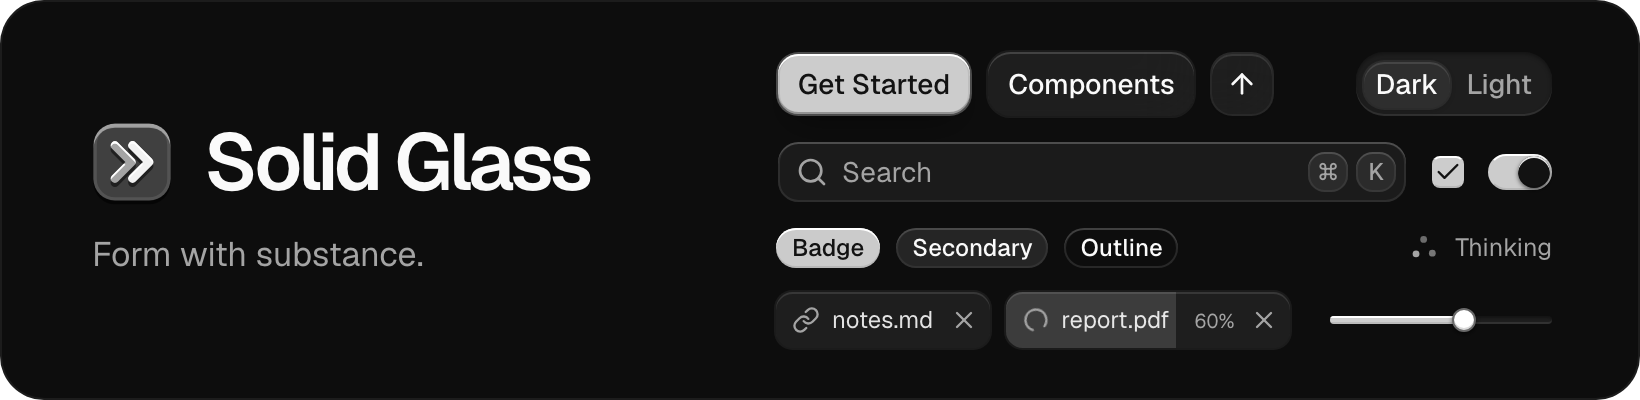
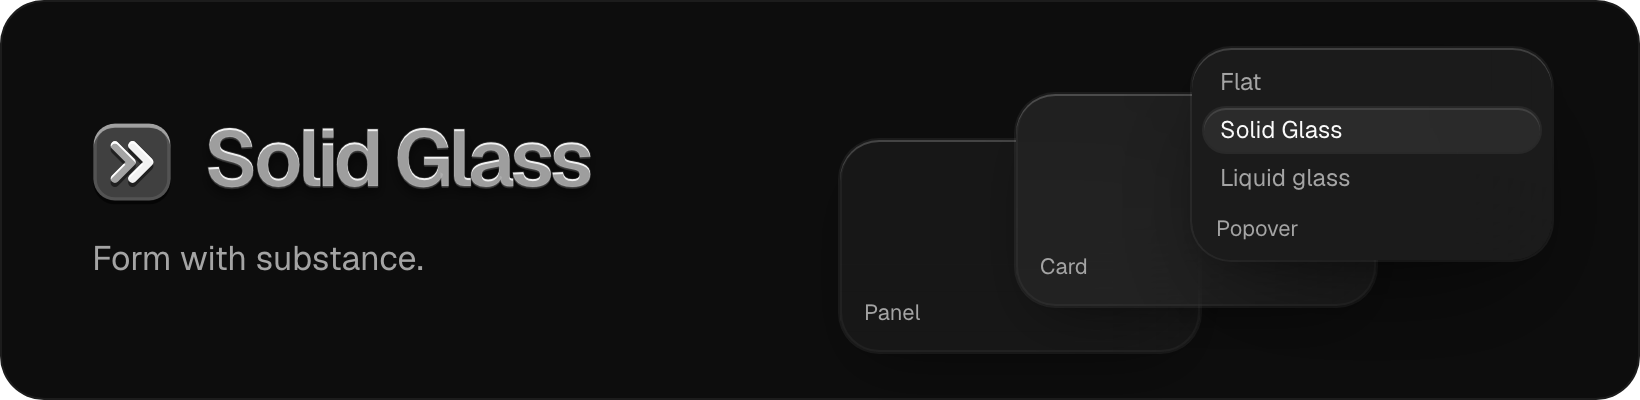
Show the components, not the headline, in the README
The banner already carries the name and the line under it, so the two
pictures below it start at the wall of cards. In the banner the name is
set in glass, and the three thicknesses are back on its right.

diff --git a/src/pages/dev-banner.tsx b/src/pages/dev-banner.tsx
@@ -1,25 +1,47 @@
 import * as React from "react"
-import { ArrowUpIcon, LinkIcon, PaperclipIcon, SearchIcon } from "lucide-react"
 
-import { Badge } from "@/components/ui/badge"
-import { Button } from "@/components/ui/button"
-import { Checkbox } from "@/components/ui/checkbox"
-import { Input } from "@/components/ui/input"
-import { Kbd } from "@/components/ui/kbd"
-import { Slider } from "@/components/ui/slider"
-import { StatusGlyph } from "@/components/ui/status-glyph"
-import { Switch } from "@/components/ui/switch"
-import { Tabs, TabsList, TabsTrigger } from "@/components/ui/tabs"
-import { Tag } from "@/components/ui/tag"
 import { SolidGlassMark } from "@/site/logo"
+
+/**
+ * The name, set in the material: each letter a pane of glass. A grey face, the line of light along
+ * the top of every stroke, a hairline round it, a thin dark edge underneath and its shadow on the
+ * page. No gradient; like a pane, a letter is finished at its edges.
+ */
+function GlassWordmark({ children }: { children: string }) {
+  const id = React.useId()
+  const letters = (props: React.SVGProps<SVGTextElement>) => (
+    <text x="0" y="36" fontSize="40" fontWeight="600" letterSpacing="-2" {...props}>
+      {children}
+    </text>
+  )
+  return (
+    <svg width="222" height="48" viewBox="0 0 222 48" role="img" aria-label={children} className="overflow-visible font-sans">
+      <defs>
+        {/* What is left of the letters once the same letters, moved down a little, are taken out: their top edges. */}
+        <mask id={`${id}rim`} maskUnits="userSpaceOnUse" x="-8" y="-8" width="240" height="64">
+          {letters({ fill: "#fff" })}
+          <g transform="translate(0 1)">{letters({ fill: "#000" })}</g>
+        </mask>
+      </defs>
+      <g transform="translate(0 3.5)" style={{ filter: "blur(3px)" }}>
+        {letters({ fill: "#000", fillOpacity: 0.55 })}
+      </g>
+      <g transform="translate(0 1.1)">{letters({ fill: "oklch(0.3 0 0)" })}</g>
+      {letters({ fill: "oklch(0.7 0 0)" })}
+      {letters({ fill: "none", stroke: "#fff", strokeOpacity: 0.16, strokeWidth: 0.7 })}
+      <g mask={`url(#${id}rim)`}>{letters({ fill: "#fff", fillOpacity: 0.85 })}</g>
+    </svg>
+  )
+}
 
 /**
  * Development only (/dev/banner): the banner at the top of the README, drawn with the theme itself so
  * it cannot drift from the material. It fills an 820 by 200 window; `docs/banner.png` is a
  * screenshot of this page at twice that, with a clear background (the corners are see-through).
  *
- * On the left, the name. On the right, a handful of small things in the material, the components as
- * installed: buttons, a field, tabs, badges, a switch, a slider.
+ * On the left, the name, in glass. On the right, the three thicknesses, panel under card under
+ * popover, and in the popover the one state, worn by the material's own name between the two it
+ * stands between.
  */
 export function DevBanner() {
   // Nothing behind the banner: its corners are rounded, and what shows past them should be whatever
@@ -35,54 +57,19 @@ export function DevBanner() {
       <div className="flex flex-col gap-3">
         <div className="flex items-center gap-3.5">
           <SolidGlassMark className="size-11" />
-          <span className="text-[40px] leading-none font-semibold tracking-tighter">Solid Glass</span>
+          <GlassWordmark>Solid Glass</GlassWordmark>
         </div>
         <p className="pl-0.5 text-[17px] text-muted-foreground">Form with substance.</p>
       </div>
 
-      <div className="flex w-[388px] shrink-0 flex-col gap-3">
-        <div className="flex items-center gap-2">
-          <Button>Get Started</Button>
-          <Button variant="glass">Components</Button>
-          <Button variant="outline" size="icon" aria-label="Send">
-            <ArrowUpIcon />
-          </Button>
-          <Tabs defaultValue="dark" className="ml-auto">
-            <TabsList>
-              <TabsTrigger value="dark">Dark</TabsTrigger>
-              <TabsTrigger value="light">Light</TabsTrigger>
-            </TabsList>
-          </Tabs>
-        </div>
-        <div className="flex items-center gap-3">
-          <div className="relative flex-1">
-            <SearchIcon className="pointer-events-none absolute top-2 left-2.5 size-4 text-muted-foreground" />
-            <Input placeholder="Search" aria-label="Search" className="pr-14 pl-8" />
-            <span className="absolute top-1.5 right-1.5 flex gap-1">
-              <Kbd>⌘</Kbd>
-              <Kbd>K</Kbd>
-            </span>
-          </div>
-          <Checkbox defaultChecked aria-label="Checked" />
-          <Switch defaultChecked aria-label="On" />
-        </div>
-        <div className="flex items-center gap-2">
-          <Badge>Badge</Badge>
-          <Badge variant="secondary">Secondary</Badge>
-          <Badge variant="outline">Outline</Badge>
-          <span className="ml-auto flex items-center gap-2 text-[12.5px] text-muted-foreground">
-            <StatusGlyph activity="thinking" />
-            Thinking
-          </span>
-        </div>
-        <div className="flex items-center gap-2">
-          <Tag icon={<LinkIcon />} onRemove={() => {}}>
-            notes.md
-          </Tag>
-          <Tag icon={<PaperclipIcon />} progress={0.6} onRemove={() => {}}>
-            report.pdf
-          </Tag>
-          <Slider defaultValue={[62]} aria-label="Amount" className="ml-3 flex-1" />
+      <div className="relative h-[152px] w-[356px] shrink-0 text-[11px] text-muted-foreground">
+        <div className="glass-panel absolute top-[46px] left-0 flex h-[106px] w-[180px] items-end rounded-xl p-3">Panel</div>
+        <div className="absolute top-[23px] left-[88px] flex h-[106px] w-[180px] items-end rounded-xl bg-card p-3">Card</div>
+        <div className="absolute top-0 left-[176px] flex h-[106px] w-[180px] flex-col gap-0.5 rounded-xl bg-popover p-1.5 text-[12px] text-foreground">
+          <span className="flex h-[22px] items-center rounded-md px-2 text-muted-foreground">Flat</span>
+          <span className="glass-chosen flex h-[22px] items-center rounded-md px-2">Solid Glass</span>
+          <span className="flex h-[22px] items-center rounded-md px-2 text-muted-foreground">Liquid glass</span>
+          <span className="mt-auto px-1.5 pb-0.5 text-[11px] text-muted-foreground">Popover</span>
         </div>
       </div>
     </div>

diff --git a/README.md b/README.md
@@ -30,9 +30,9 @@ takes no colour from what is behind it, bends nothing and does not flow.
 **[deeplethe.github.io/solid-glass](https://deeplethe.github.io/solid-glass)** shows every
 shadcn/ui component in the material, plus a dozen components of Solid Glass's own.
 
-![The home page in the dark theme](docs/screenshots/home-dark.png)
+![The components in the dark theme](docs/screenshots/home-dark.png)
 
-![The home page in the light theme](docs/screenshots/home-light.png)
+![The components in the light theme](docs/screenshots/home-light.png)
 
 It stands between flat design and liquid glass. Flat is an opaque block with no finish to speak of;
 liquid glass is nearly clear, and on a page with a lot of text the reader is always fighting the
